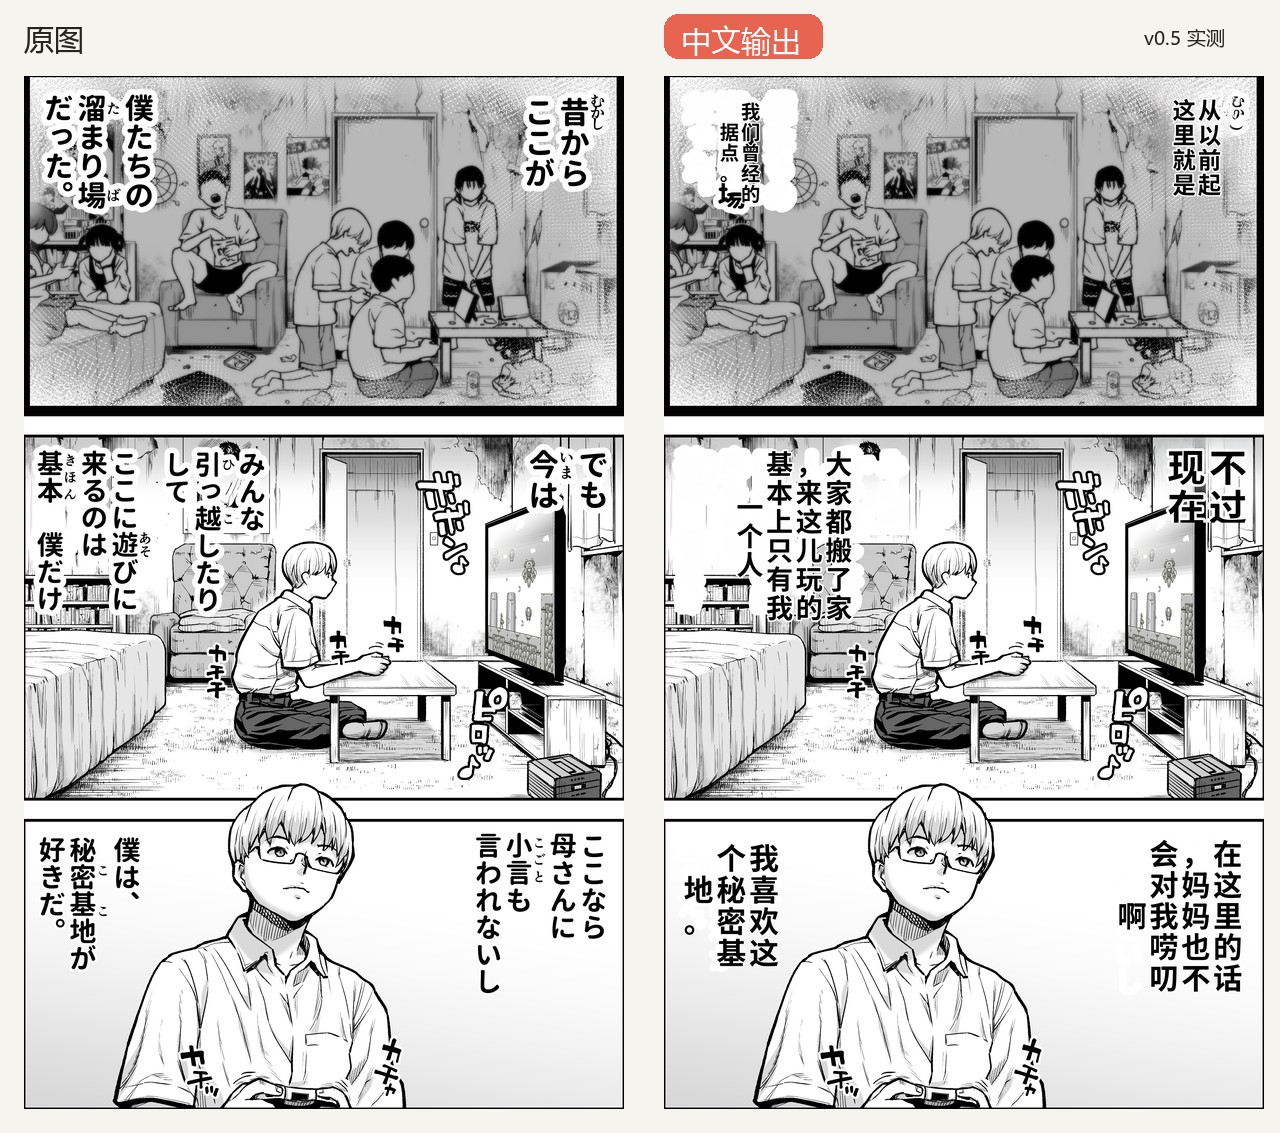
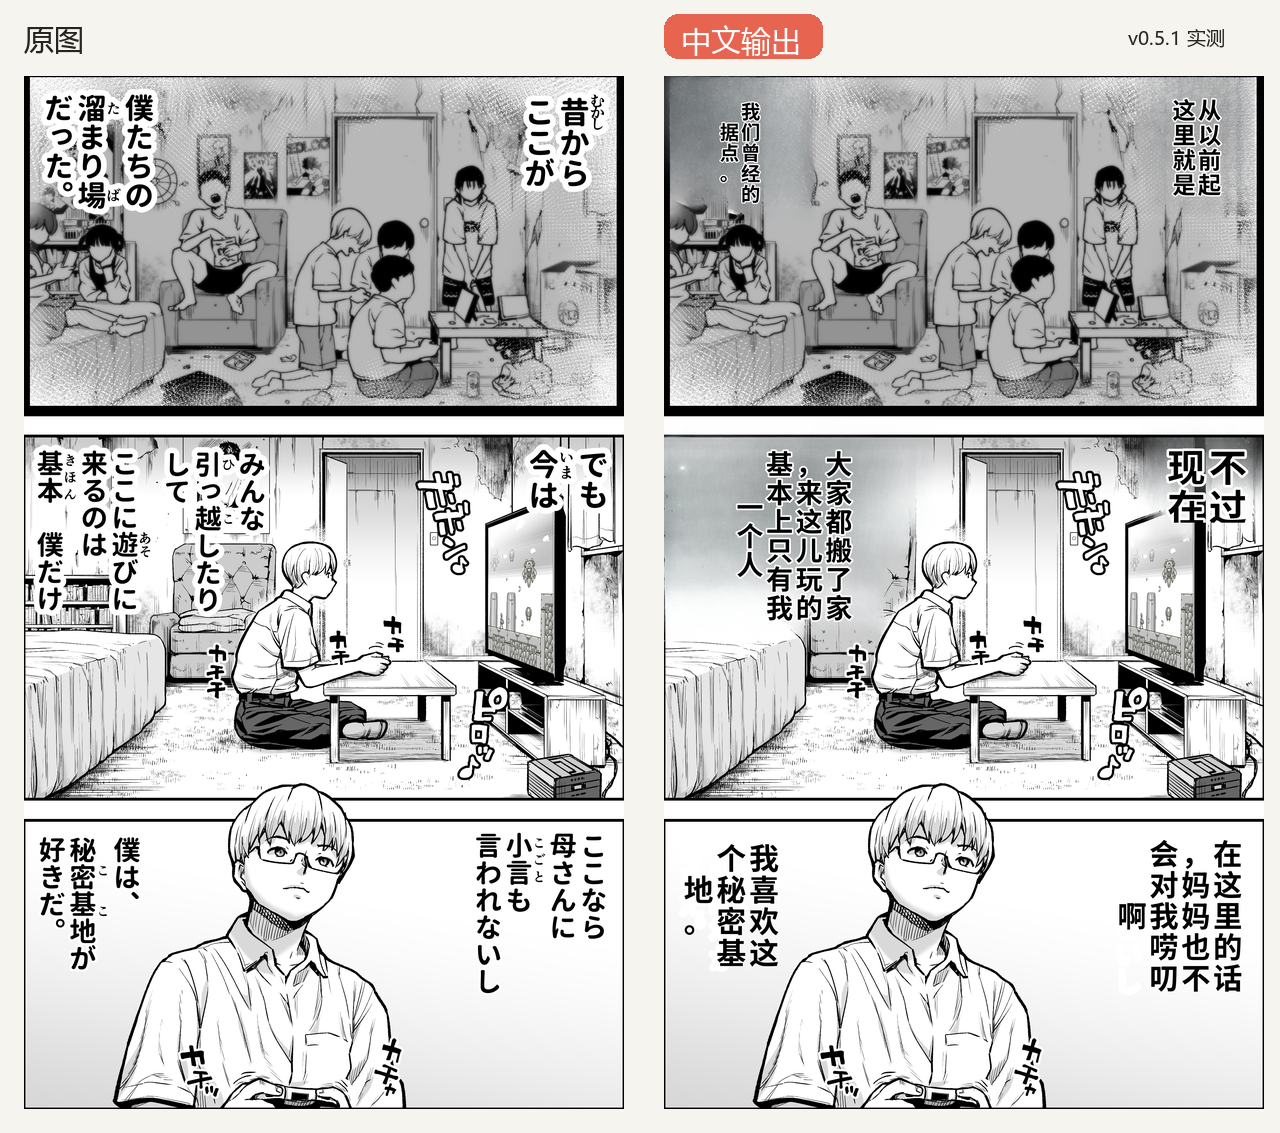
fix: remove outlined source halos before LaMa repair

diff --git a/tests/test_renderer.py b/tests/test_renderer.py
@@ -188,7 +188,46 @@ def test_large_outlined_cleanup_fills_only_detector_owned_boxes(tmp_path):
     rendered = np.asarray(Image.open(output).convert("RGB"))
     assert np.all(rendered[40:260, 40:180] == (255, 0, 255))
     assert np.all(rendered[40:260, 420:560] == (255, 0, 255))
-    assert np.array_equal(rendered[40:260, 220:380], image[40:260, 220:380])
+    assert np.array_equal(rendered[40:260, 260:340], image[40:260, 260:340])
+
+
+def test_textured_outlined_cleanup_includes_source_stroke_halo(tmp_path):
+    class MaskPaintingInpainter:
+        def __call__(self, crop, mask):
+            result = crop.copy()
+            result[mask > 0] = (255, 0, 255)
+            return result
+
+    source = tmp_path / "outlined-halo.png"
+    image = np.full((300, 260, 3), 180, dtype=np.uint8)
+    Image.fromarray(image).save(source)
+    unit = TextUnit(
+        "outlined",
+        [50, 30, 210, 270],
+        [40, 20, 220, 280],
+        "日本語",
+        1.0,
+        False,
+        "中文",
+        erase_boxes=[[80, 60, 160, 240]],
+    )
+    page = PageOCR(1, source.name, 260, 300, [unit])
+    renderer = ArtworkPreservingRenderer(
+        cleanup_profile="quality", inpainter=MaskPaintingInpainter()
+    )
+    renderer._draw = lambda *_args, **_kwargs: None
+    renderer._analyze_style = lambda *_args: TextStyle(
+        180, 0.2, "black", "white", 0.066, True, 80, True, True, 24, False
+    )
+    output = tmp_path / "outlined-halo-output.png"
+    renderer.render_page(source, page, output)
+    rendered = np.asarray(Image.open(output).convert("RGB"))
+    # The type-size-aware detector halo includes outline/kana pixels omitted by
+    # the OCR core rectangle, so they cannot survive behind the translation.
+    assert np.all(rendered[45:255, 30:210] == (255, 0, 255))
+    # Unrelated artwork beyond that bounded detector halo is pixel-locked.
+    assert np.array_equal(rendered[:, :20], image[:, :20])
+    assert np.array_equal(rendered[:, 225:], image[:, 225:])
 
 
 def test_grouped_column_width_is_an_upper_bound_for_font_size():

diff --git a/src/manga_localizer/renderer.py b/src/manga_localizer/renderer.py
@@ -383,8 +383,13 @@ class ArtworkPreservingRenderer:
         # thick white outline. Each detector-owned box remains independent, so
         # the wider title halo cannot turn the semantic group union into a mask.
         dilation = self._mask_dilation(unit, style)
-        solid_source_boxes = (
-            style.outlined and style.font_size >= 120 and not style.display
+        # A foreground-only component mask removes the dark glyph core but can
+        # leave the contrasting source outline behind as a conspicuous white
+        # silhouette.  On textured artwork, every confirmed outlined-text box
+        # therefore becomes an independent LaMa region.  The detector boxes,
+        # not their semantic union, remain the destructive authority.
+        solid_source_boxes = style.outlined and (
+            style.background_std >= 10 or style.display or unit.special == "cover_title"
         )
         for source_box in source_boxes:
             sx0 = max(x0, source_box[0]) - rx0
@@ -395,6 +400,16 @@ class ArtworkPreservingRenderer:
                 continue
             pad_x = min(32, max(8, round((sx1 - sx0) * 0.08)))
             pad_y = min(32, max(8, round((sy1 - sy0) * 0.06)))
+            if solid_source_boxes:
+                # OCR rectangles frequently stop at the dark glyph core and
+                # can omit small kana or the outer half of a thick contrasting
+                # stroke.  Scale the cleanup halo from the measured type size
+                # instead of the detector rectangle alone.  The cap keeps
+                # separate columns separate, while the wider halo closes the
+                # small inter-box gaps in one outlined text cluster.
+                outline_pad = min(64, max(16, round(style.font_size * 0.72)))
+                pad_x = max(pad_x, outline_pad)
+                pad_y = max(pad_y, outline_pad)
             bx0, by0 = max(0, sx0 - pad_x), max(0, sy0 - pad_y)
             bx1, by1 = min(crop.shape[1], sx1 + pad_x), min(crop.shape[0], sy1 + pad_y)
             # On dark or highly textured artwork, opposite-polarity outlined
@@ -406,7 +421,11 @@ class ArtworkPreservingRenderer:
             # Fill each rectangle independently; never fill their semantic
             # union, which may contain faces or other panel artwork.
             if solid_source_boxes:
-                mask[sy0:sy1, sx0:sx1] = 255
+                # Include the detector halo because the contrasting outline and
+                # nearby kana can sit outside the reported dark glyph core.
+                # Padding remains bounded per detector box rather than filling
+                # the semantic union, which may contain unrelated artwork.
+                mask[by0:by1, bx0:bx1] = 255
                 continue
             local = self._text_mask(crop[by0:by1, bx0:bx1], style, dilation)
             mask[by0:by1, bx0:bx1] = np.maximum(mask[by0:by1, bx0:bx1], local)

diff --git a/scripts/build_readme_comparisons.py b/scripts/build_readme_comparisons.py
@@ -64,7 +64,7 @@ def main() -> None:
             font=title_font,
             fill="white",
         )
-        draw.text((width - 136, 24), "v0.5 实测", font=badge_font, fill=charcoal)
+        draw.text((width - 152, 24), "v0.5.1 实测", font=badge_font, fill=charcoal)
 
         for image_path, x in ((source, margin), (output, width // 2 + margin)):
             with Image.open(image_path) as image:

diff --git a/src/manga_localizer/__init__.py b/src/manga_localizer/__init__.py
@@ -1,3 +1,3 @@
 """Manga Localizer Studio."""
 
-__version__ = "0.5.0"
+__version__ = "0.5.1"

diff --git a/CHANGELOG.md b/CHANGELOG.md
@@ -1,5 +1,11 @@
 # Changelog
 
+## 0.5.1 - 2026-07-19
+
+- Remove thick contrasting source outlines as part of the LaMa mask instead of selecting only the dark glyph core, eliminating white silhouettes behind translated text.
+- Scale the bounded cleanup halo from the measured source font size so OCR boxes that omit ruby or the outer stroke cannot leave residual Japanese fragments between detector rectangles.
+- Keep grouped detector regions independent and restore every pixel outside declared text regions; the 125-page lossless WebP benchmark again passes with zero unresolved units and zero out-of-boundary pixel changes.
+
 ## 0.5.0 - 2026-07-19
 
 - Add a fully local quality ensemble: one unrestricted Qwen3.5 9B model performs staged drafting, candidate selection, and targeted semantic-risk retranslation, with Hy-MT2 providing the independent candidate.

diff --git a/docs/benchmarks/V0.5_FULL_BOOK_REPORT.md b/docs/benchmarks/V0.5_FULL_BOOK_REPORT.md
@@ -1,4 +1,4 @@
-# v0.5 full-book local benchmark
+# v0.5.1 full-book local benchmark
 
 Run date: 2026-07-19
 
@@ -10,7 +10,7 @@ This benchmark exercises the current generic local pipeline on a 125-page Japane
 - Semantic OCR and context review: `huihui_ai/qwen3.5-abliterated:9b` through local Ollama
 - Independent translation candidate: Hy-MT2 1.8B
 - Name consistency: recurring-name extraction plus JMnedict lookup and local 9B disambiguation
-- Artwork repair: Big-LaMa with exact-box edit boundaries
+- Artwork repair: Big-LaMa with type-size-aware outlined-text halos and bounded edit regions
 - Output: native-resolution lossless WebP
 - Sound-effect policy: preserve source SFX
 

diff --git a/README.md b/README.md
@@ -6,7 +6,7 @@
 
 ## 实机效果：前三页对比
 
-下面三张图来自 v0.5 对一部 125 页漫画的全书本地实测，使用当前项目的通用 OCR、自动人名统一、9B 上下文审校、LaMa 补画和样式重建模块；没有人工人名表，也没有调用在线 LLM API。共处理 1,285 个文字单元：替换中文 687 个、按设置保留拟声词 598 个，未解决单元 0、无效译文 0、声明区域外变化像素 0。README 只做等比例缩略展示，源图与成品均保持 2126×3661 原始尺寸。完整指标见 [`docs/benchmarks/V0.5_FULL_BOOK_REPORT.md`](docs/benchmarks/V0.5_FULL_BOOK_REPORT.md)。
+下面三张图来自 v0.5.1 对一部 125 页漫画的全书本地实测，使用当前项目的通用 OCR、自动人名统一、9B 上下文审校、LaMa 补画和样式重建模块；没有人工人名表，也没有调用在线 LLM API。共处理 1,285 个文字单元：替换中文 687 个、按设置保留拟声词 598 个，未解决单元 0、无效译文 0、声明区域外变化像素 0。README 只做等比例缩略展示，源图与成品均保持 2126×3661 原始尺寸。完整指标见 [`docs/benchmarks/V0.5_FULL_BOOK_REPORT.md`](docs/benchmarks/V0.5_FULL_BOOK_REPORT.md)。
 
 ![第 1 页原图与简体中文输出对比](docs/screenshots/comparisons/comparison-page-01.webp)
 